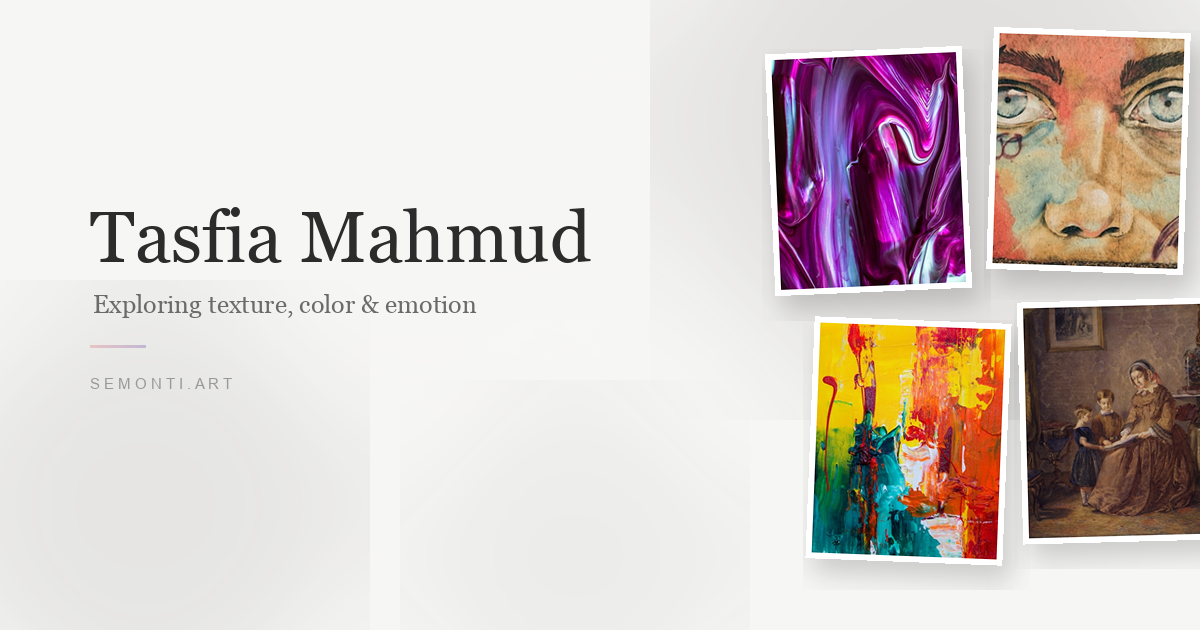
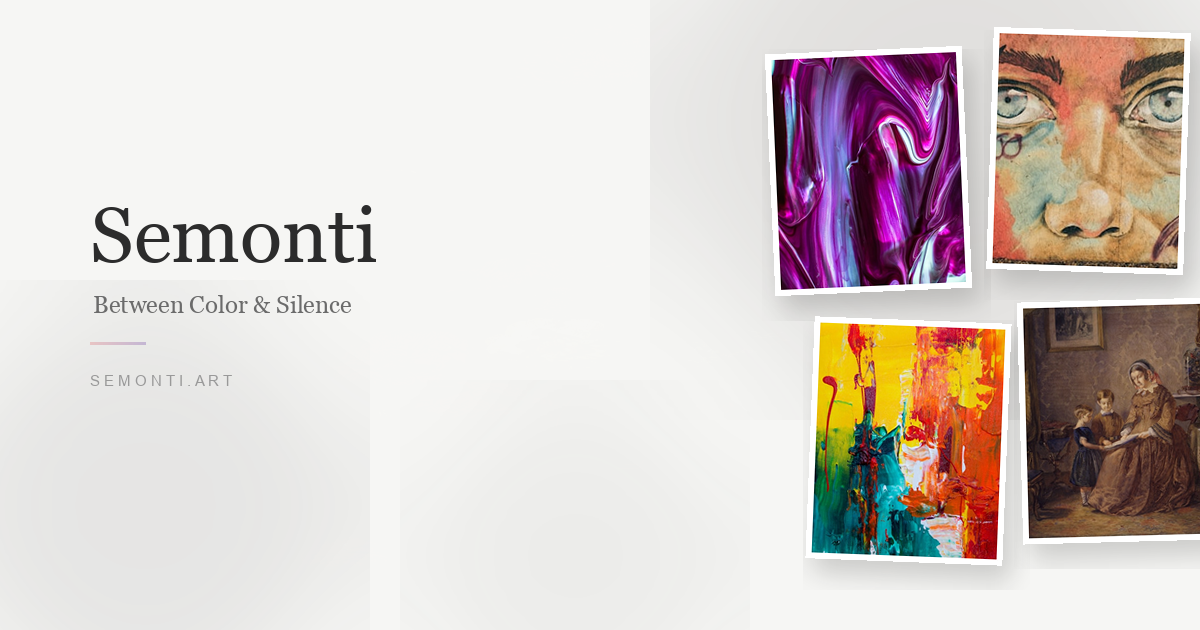
Update index.html and assets

diff --git a/index.html b/index.html
@@ -5,7 +5,7 @@
   <meta name="viewport" content="width=device-width, initial-scale=1.0">
 
   <!-- Primary SEO -->
-  <title>Tasfia Mahmud — Artist Portfolio</title>
+  <title>Semonti — Between Color & Silence</title>
   <meta name="description" content="Visual artist exploring texture, color, and emotion through watercolor, mixed media, and ink. View the portfolio of Tasfia Mahmud.">
   <meta name="author" content="Tasfia Mahmud">
   <meta name="robots" content="index, follow">
@@ -14,26 +14,26 @@
   <!-- Open Graph — Facebook, Messenger, WhatsApp, iMessage, LinkedIn, Discord -->
   <meta property="og:type" content="website">
   <meta property="og:url" content="https://semonti.art/">
-  <meta property="og:site_name" content="Tasfia Mahmud">
-  <meta property="og:title" content="Tasfia Mahmud — Artist Portfolio">
+  <meta property="og:site_name" content="Semonti">
+  <meta property="og:title" content="Semonti — Between Color & Silence">
   <meta property="og:description" content="Exploring texture, color, and emotion through watercolor, mixed media, and ink.">
   <meta property="og:image" content="https://semonti.art/assets/og-image.png">
   <meta property="og:image:width" content="1200">
   <meta property="og:image:height" content="630">
-  <meta property="og:image:alt" content="Tasfia Mahmud — Exploring texture, color and emotion. semonti.art">
+  <meta property="og:image:alt" content="Semonti — Between Color and Silence. Visual art by Tasfia Mahmud.">
   <meta property="og:locale" content="en_US">
 
   <!-- Twitter / X -->
   <meta name="twitter:card" content="summary_large_image">
-  <meta name="twitter:title" content="Tasfia Mahmud — Artist Portfolio">
+  <meta name="twitter:title" content="Semonti — Between Color & Silence">
   <meta name="twitter:description" content="Exploring texture, color, and emotion through watercolor, mixed media, and ink.">
   <meta name="twitter:image" content="https://semonti.art/assets/og-image.png">
-  <meta name="twitter:image:alt" content="Tasfia Mahmud — Exploring texture, color and emotion. semonti.art">
+  <meta name="twitter:image:alt" content="Semonti — Between Color and Silence. Visual art by Tasfia Mahmud.">
 
   <!-- Mobile / PWA -->
   <meta name="theme-color" content="#FAFAF8">
-  <meta name="apple-mobile-web-app-title" content="Tasfia Mahmud">
-  <meta name="application-name" content="Tasfia Mahmud">
+  <meta name="apple-mobile-web-app-title" content="Semonti">
+  <meta name="application-name" content="Semonti">
   <link rel="icon" type="image/svg+xml" href="assets/favicon.svg">
   <link rel="apple-touch-icon" sizes="180x180" href="assets/apple-touch-icon.png">
   <link rel="icon" type="image/png" sizes="32x32" href="assets/favicon-32x32.png">
@@ -44,7 +44,7 @@
   {
     "@context": "https://schema.org",
     "@type": "WebSite",
-    "name": "Tasfia Mahmud — Artist Portfolio",
+    "name": "Semonti — Between Color & Silence",
     "url": "https://semonti.art",
     "description": "Visual artist exploring texture, color, and emotion through watercolor, mixed media, and ink."
   }
